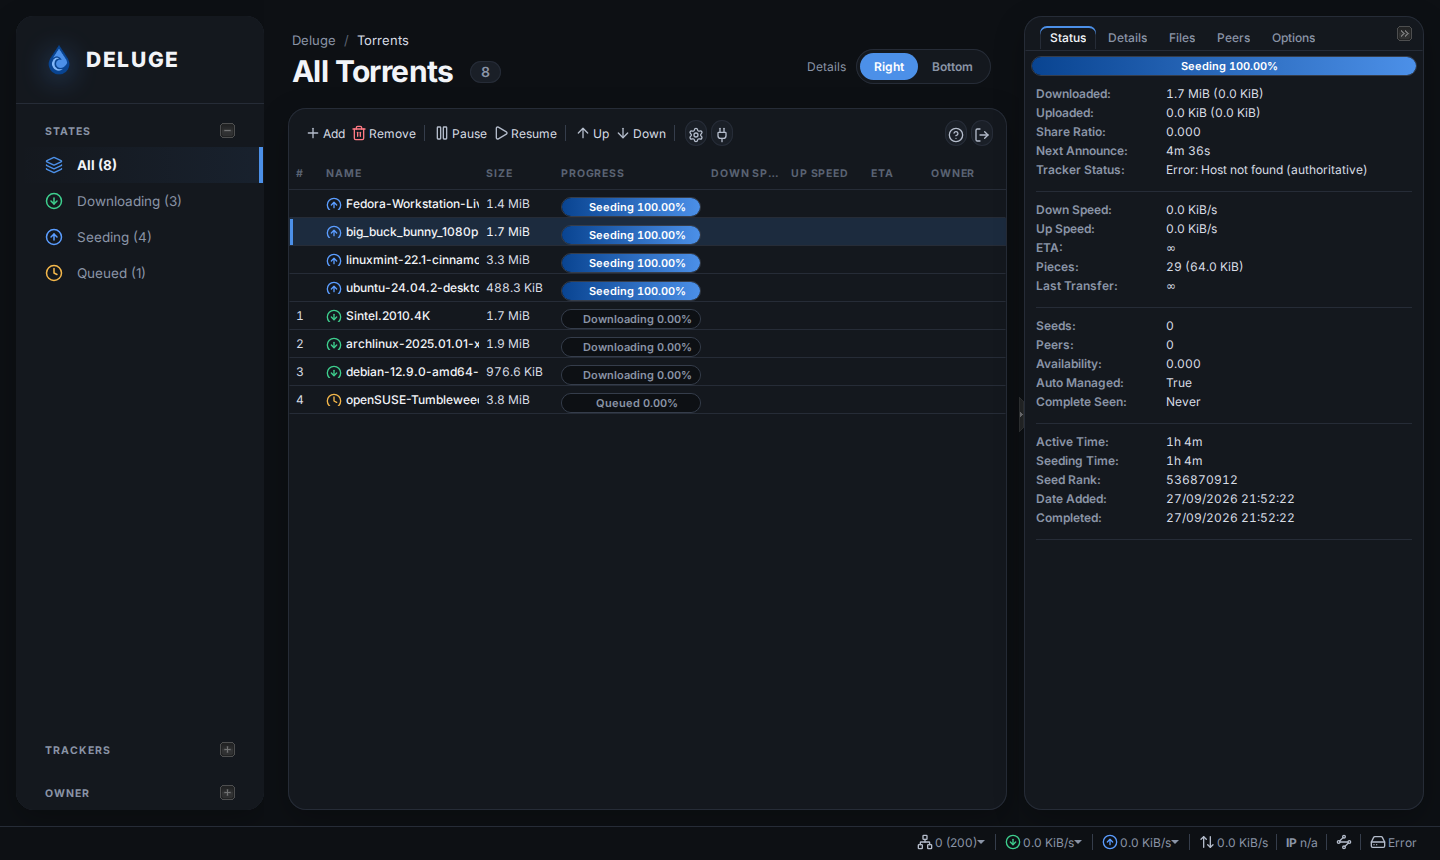
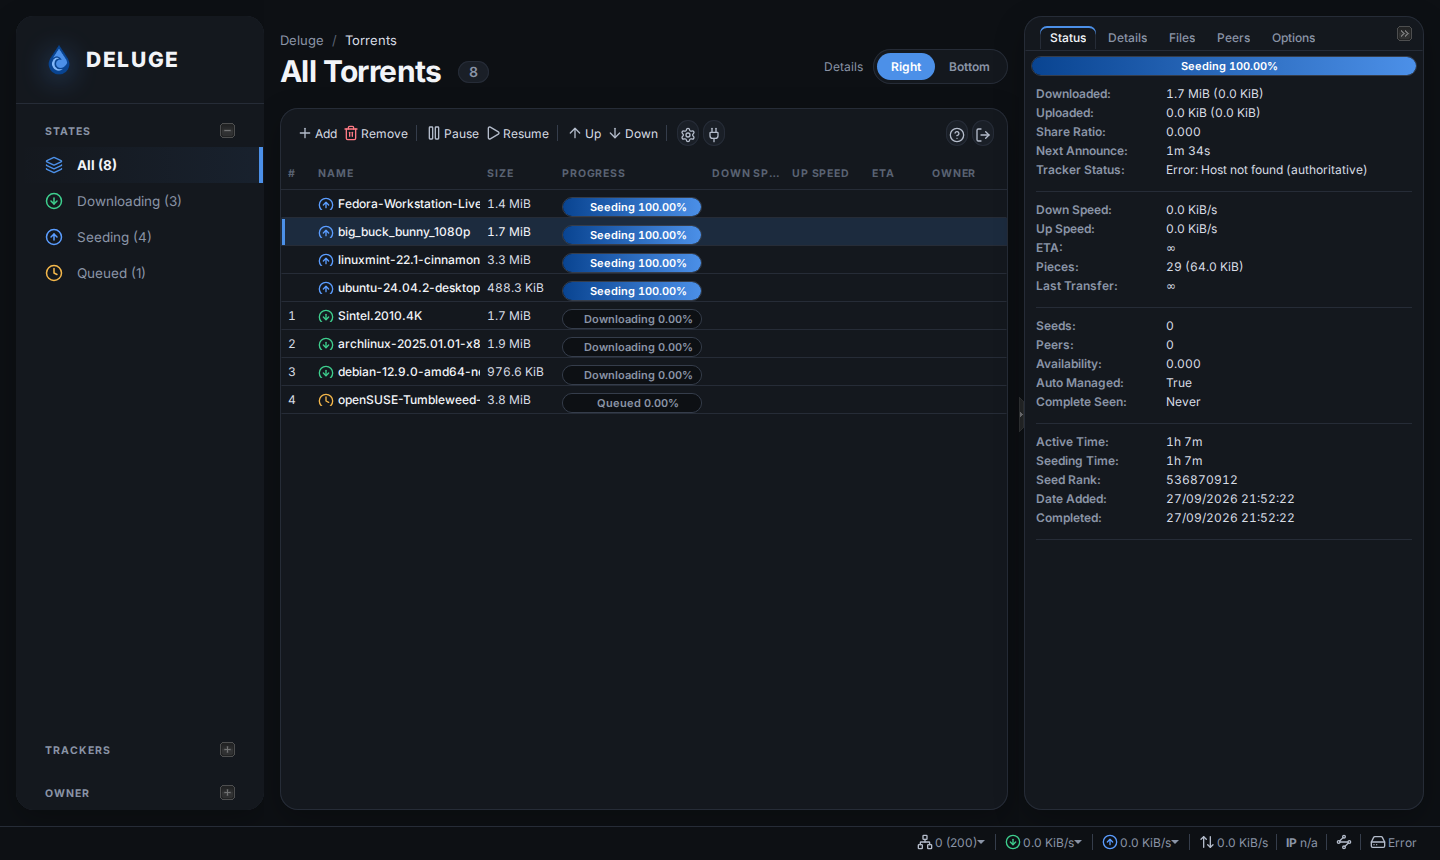
Dashboard: consistent 16px spacing between cards
Use the window-edge spacing (16px) for every gap between cards in both
details layouts. Margins next to Ext's 5px resize bars are reduced to
11px so the visible gap is still 16px. The page title and the details
switch now line up with the torrent list card's edges.

diff --git a/plugin/deluge_darkhand/data/darkhand.js b/plugin/deluge_darkhand/data/darkhand.js
@@ -79,6 +79,16 @@ Ext.ns('Deluge.plugins.darkhand');
         );
     }
 
+    // Spacing between cards and around the window edge. Where a resize bar
+    // (Ext's 5px split bar) sits between two cards, the margin next to it is
+    // reduced so the visible gap is still GAP.
+    var GAP = 16;
+    var SPLIT = 5;
+
+    function margins(top, right, bottom, left) {
+        return [top, right, bottom, left].join(' ');
+    }
+
     /**
      * Change a component's layout settings before it is rendered. Ext's
      * BorderLayout reads region options (margins, split, collapseMode...)
@@ -111,7 +121,7 @@ Ext.ns('Deluge.plugins.darkhand');
             id: 'dh-nav',
             region: 'west',
             width: 248,
-            margins: '16 0 16 16',
+            margins: margins(GAP, 0, GAP, GAP),
             border: false,
             layout: 'border',
             items: [
@@ -144,7 +154,10 @@ Ext.ns('Deluge.plugins.darkhand');
             region: 'center',
             layout: 'fit',
             border: false,
-            margins: mode === 'bottom' ? '0 24 0 24' : '0 12 16 24',
+            margins:
+                mode === 'bottom'
+                    ? margins(0, GAP, 0, GAP)
+                    : margins(0, GAP - SPLIT, GAP, GAP),
             tbar: deluge.toolbar,
             items: [deluge.torrents],
         });
@@ -160,8 +173,8 @@ Ext.ns('Deluge.plugins.darkhand');
                 minSize: 140,
                 split: true,
                 collapsible: true,
-                margins: '0 24 16 24',
-                cmargins: '0 24 16 24',
+                margins: margins(GAP - SPLIT, GAP, GAP, GAP),
+                cmargins: margins(GAP - SPLIT, GAP, GAP, GAP),
             });
             mainItems.push(details);
         } else {
@@ -170,8 +183,8 @@ Ext.ns('Deluge.plugins.darkhand');
                 width: 400,
                 minSize: 320,
                 maxSize: 720,
-                margins: '16 16 16 0',
-                cmargins: '16 16 16 0',
+                margins: margins(GAP, GAP, GAP, 0),
+                cmargins: margins(GAP, GAP, GAP, 0),
                 split: true,
                 collapsible: true,
                 collapsed: true,

diff --git a/theme/darkhand/dashboard.css b/theme/darkhand/dashboard.css
@@ -152,8 +152,14 @@ html body.dh-dashboard,
     gap: 24px;
     height: 100%;
     box-sizing: border-box;
-    padding: 0 28px 20px;
+    /* Line up with the torrent list card's edges */
+    padding: 0 16px 20px;
     font-family: var(--dh-font);
+}
+
+/* On the right-hand layout the list card stops at the 5px resize bar */
+.dh-details-right .dh-header-inner {
+    padding-right: 11px;
 }
 
 .dh-breadcrumb {
